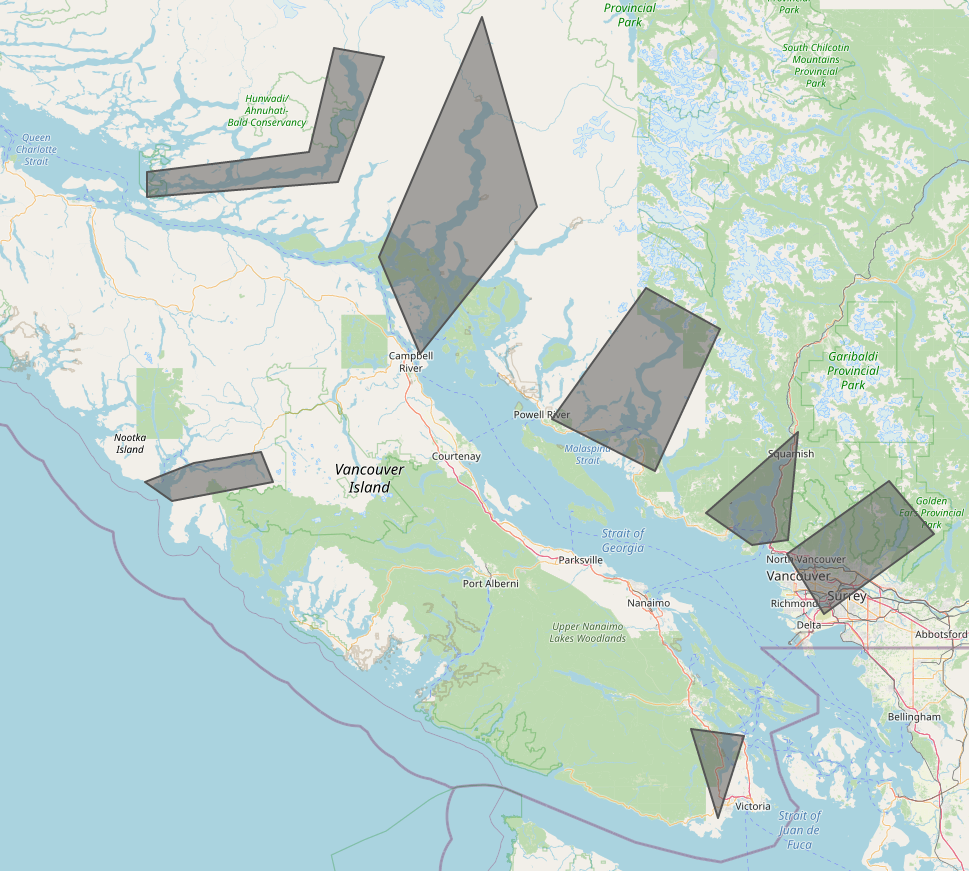
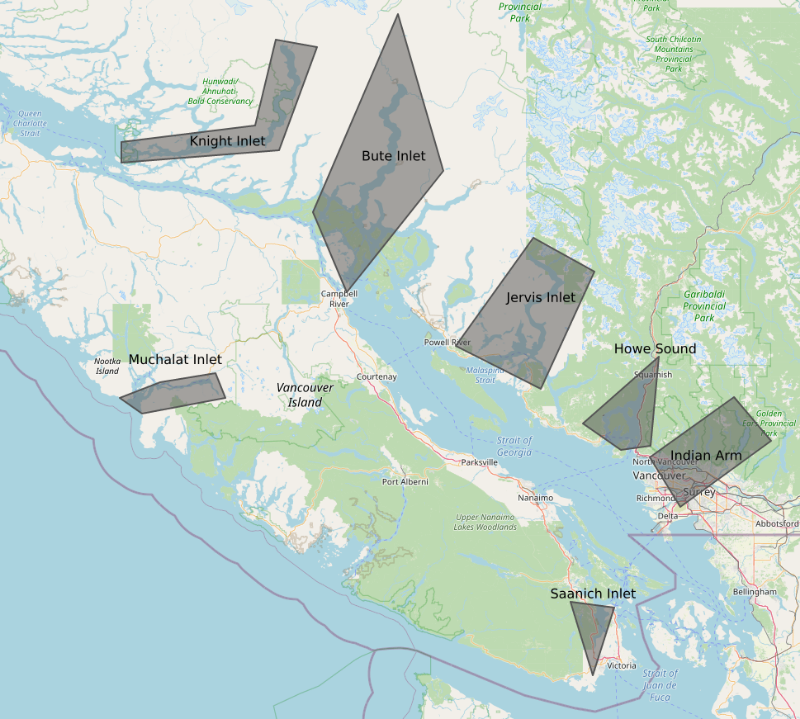
include inlet names in all-inlets-map.png

diff --git a/index.html b/index.html
@@ -14,18 +14,6 @@
 		</p>
 		<details>
 			<summary>Click here to view map</summary>
-			<p>
-				The inlets are shown on the map clockwise from the top left
-			</p>
-			<ul>
-				<li>Knight Inlet</li>
-				<li>Bute Inlet</li>
-				<li>Jervis Inlet</li>
-				<li>Howe Sound</li>
-				<li>Indian Arm</li>
-				<li>Saanich Inlet</li>
-				<li>Muchalat Inlet</li>
-			</ul>
 			<img src="figures/all-inlets-map.png" loading="lazy">
 		</details>
 
